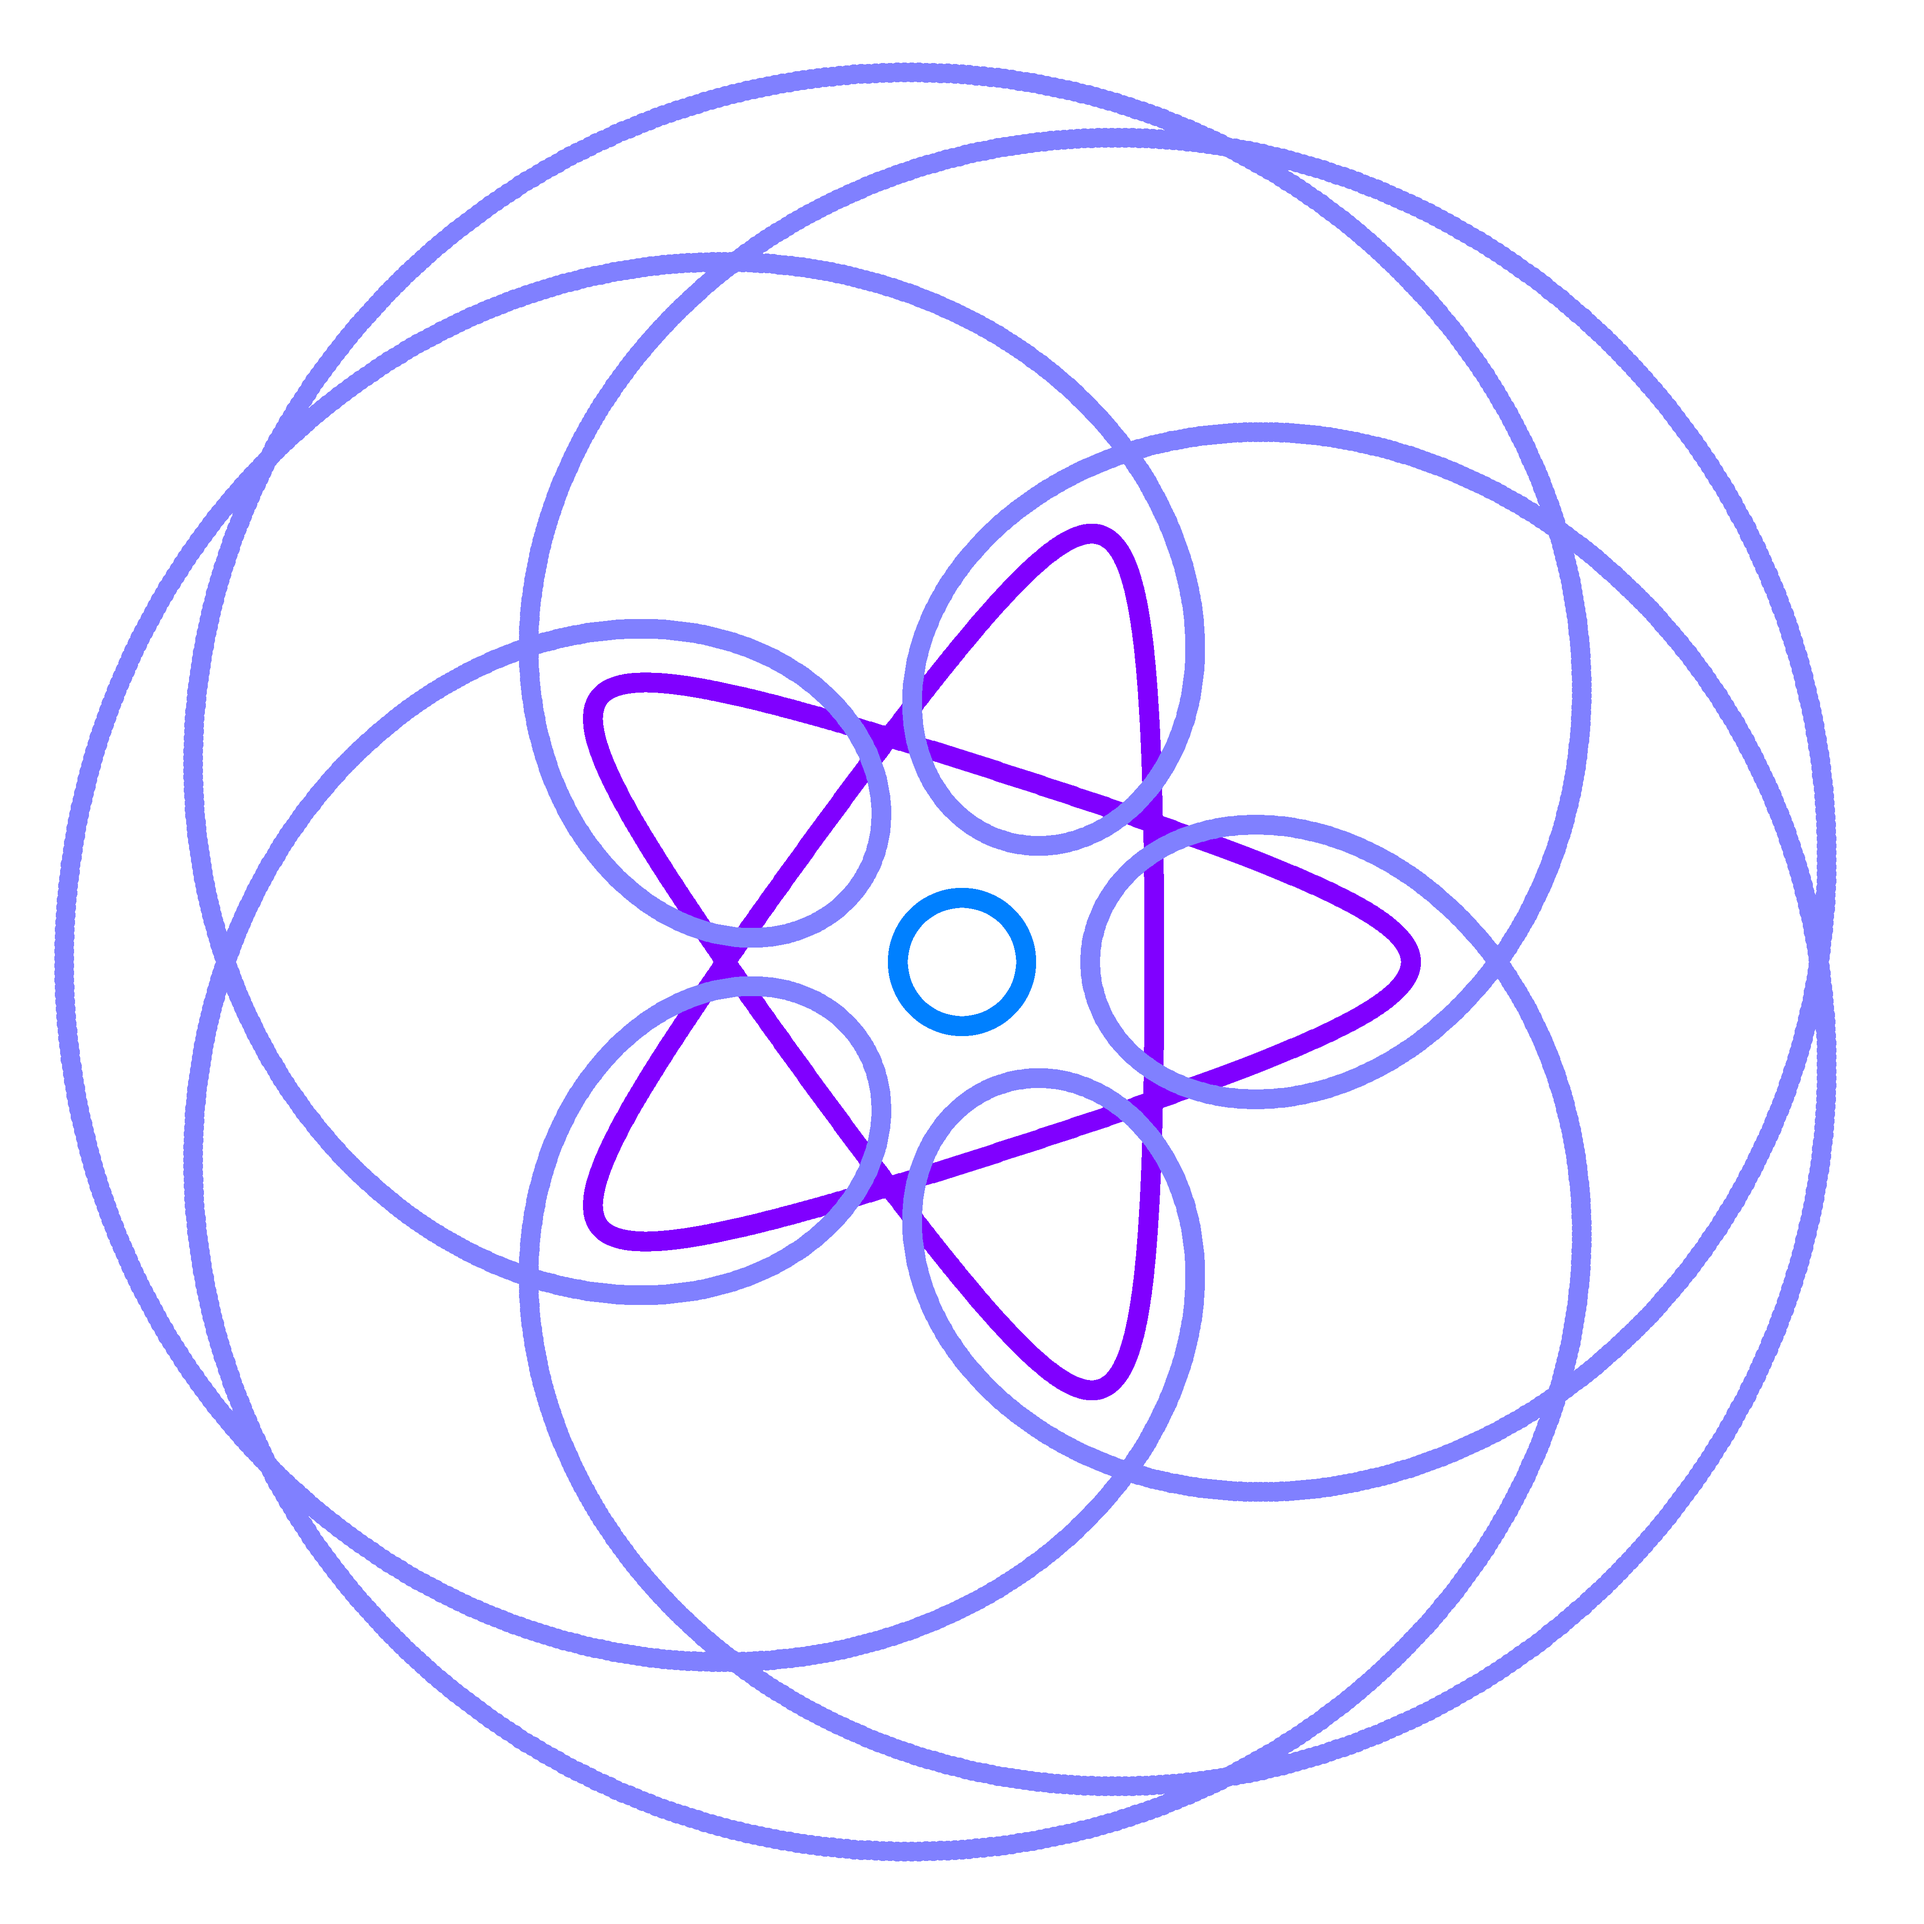
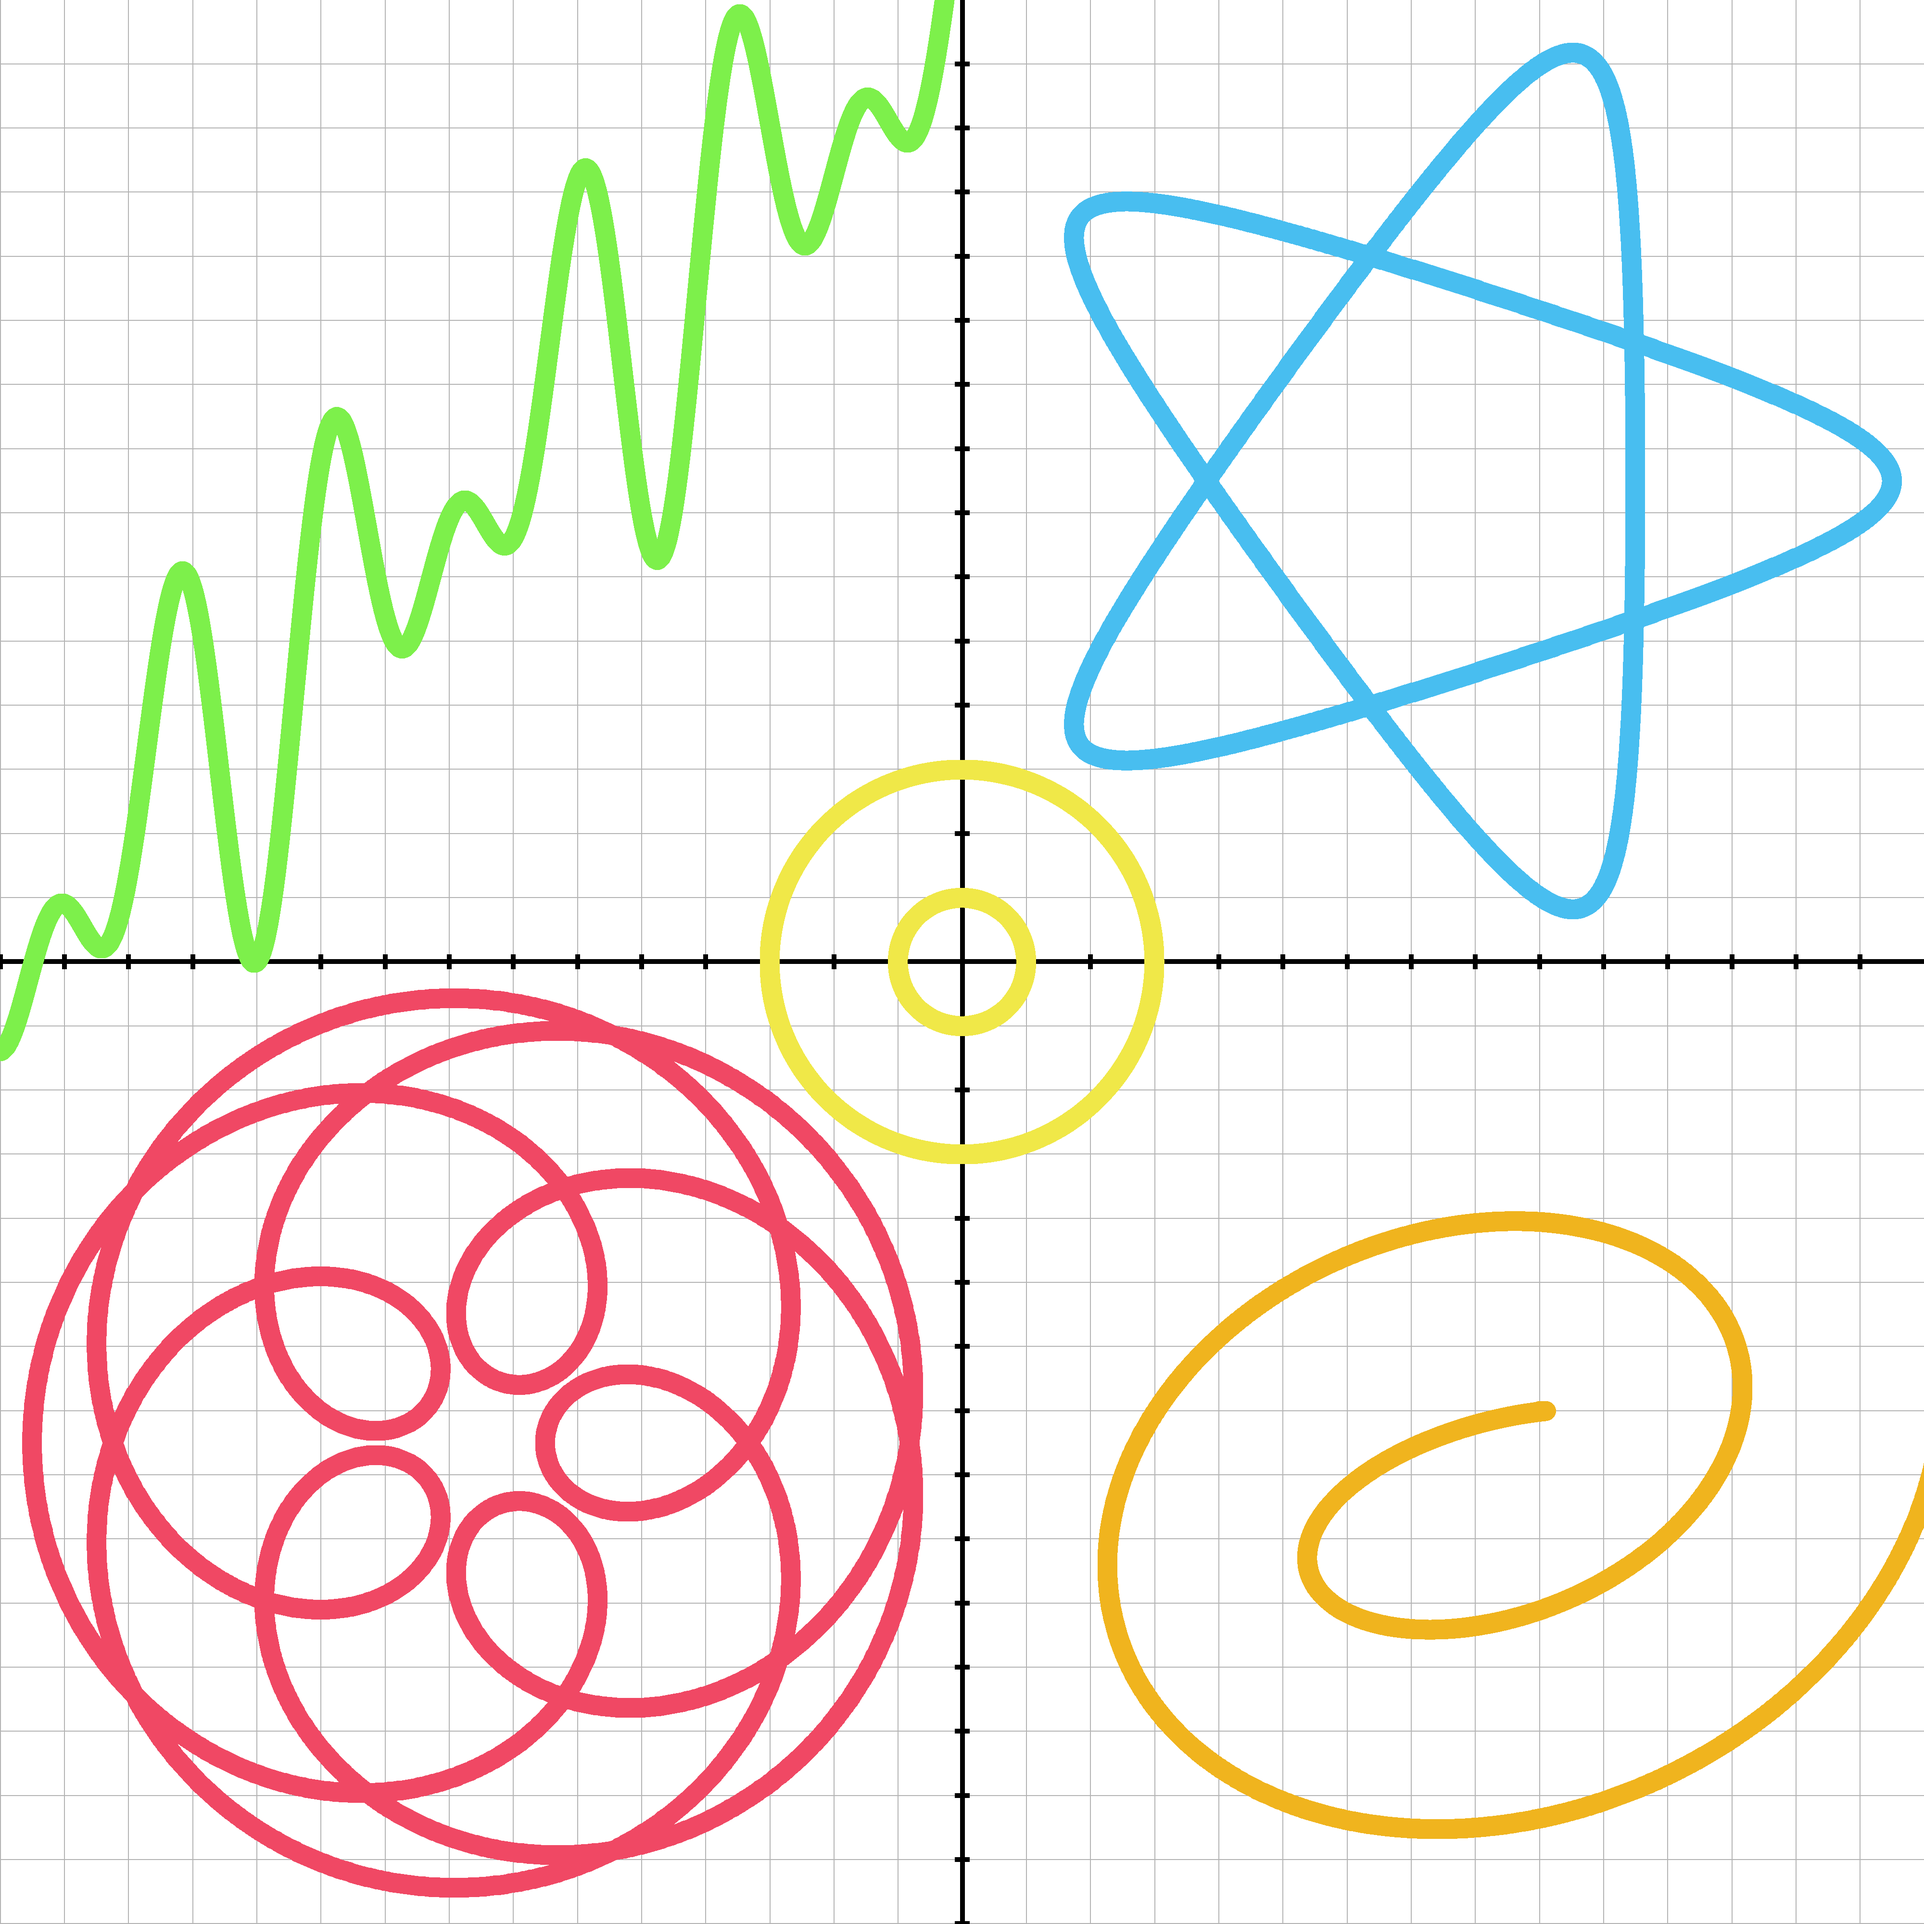
Add grid + x and y axis

Changed region(s): [[0.0, 0.0, 1.0, 1.0], [0.9688, 0.7812, 1.0, 0.8438], [0.9375, 0.8438, 0.9688, 0.875]]

diff --git a/my_image.py b/my_image.py
@@ -11,3 +11,74 @@ class MyImage:
         )
         self.draw = ImageDraw.Draw(self.image)
         self.name = self.image_options.image_name
+
+        if self.image_options.has_axis:
+            self._draw_frame()
+
+    def _draw_frame(self) -> None:
+        # draw x and y axis with mesure of 1 and image_option.interval_bounds
+
+        x_min, x_max = self.image_options.draw_interval_bounds[0]
+        y_min, y_max = self.image_options.draw_interval_bounds[1]
+        scale = (
+            self.image_options.image_size[0] / (x_max - x_min),
+            self.image_options.image_size[1] / (y_max - y_min),
+        )
+        offset = (-x_min * scale[0], -y_min * scale[1])
+
+        # draw an background ligth-grey grid
+        for i in range(int(x_min), int(x_max)):
+            self.draw.line(
+                [
+                    (i * scale[0] + offset[0], 0),
+                    (i * scale[0] + offset[0], self.image_options.image_size[1]),
+                ],
+                fill=(180, 180, 180),
+                width=2,
+            )
+        for i in range(int(y_min), int(y_max)):
+            self.draw.line(
+                [
+                    (0, i * scale[1] + offset[1]),
+                    (self.image_options.image_size[0], i * scale[1] + offset[1]),
+                ],
+                fill=(180, 180, 180),
+                width=2,
+            )
+
+        # draw x and y axis
+        self.draw.line(
+            [
+                (0, offset[1]),
+                (self.image_options.image_size[0], offset[1]),
+            ],
+            fill=self.image_options.axis_color,
+            width=self.image_options.axis_width,
+        )
+        self.draw.line(
+            [
+                (offset[0], 0),
+                (offset[0], self.image_options.image_size[1]),
+            ],
+            fill=self.image_options.axis_color,
+            width=self.image_options.axis_width,
+        )
+        # draw ticks
+        for i in range(int(x_min), int(x_max)):
+            self.draw.line(
+                [
+                    (i * scale[0] + offset[0], offset[1] - 15),
+                    (i * scale[0] + offset[0], offset[1] + 15),
+                ],
+                fill=self.image_options.axis_color,
+                width=self.image_options.axis_width,
+            )
+        for i in range(int(y_min), int(y_max)):
+            self.draw.line(
+                [
+                    (offset[0] - 15, i * scale[1] + offset[1]),
+                    (offset[0] + 15, i * scale[1] + offset[1]),
+                ],
+                fill=self.image_options.axis_color,
+                width=self.image_options.axis_width,
+            )

diff --git a/drawer.py b/drawer.py
@@ -68,10 +68,10 @@ if __name__ == "__main__":
         "star": [
             ParametricCurve(
                 interval_bounds=[0, 6 * np.pi],
-                x_func=lambda t: 2 * np.cos(t) + 5 * np.cos(2 * t / 3),
-                y_func=lambda t: 2 * np.sin(t) - 5 * np.sin(2 * t / 3),
+                x_func=lambda t: 2 * np.cos(t) + 5 * np.cos(2 * t / 3) + 7.5,
+                y_func=lambda t: 2 * np.sin(t) - 5 * np.sin(2 * t / 3) + 7.5,
             ),
-            DrawOptions(draw_color=(128, 0, 255), draw_width=20),
+            DrawOptions(draw_color=(72, 190, 240), draw_width=20),
         ],
         "circle": [
             ParametricCurve(
@@ -79,15 +79,39 @@ if __name__ == "__main__":
                 x_func=lambda t: np.cos(t),
                 y_func=lambda t: np.sin(t),
             ),
-            DrawOptions(draw_color=(0, 128, 255), draw_width=20),
+            DrawOptions(draw_color=(240, 232, 72), draw_width=20),
+        ],
+        "circle_2": [
+            ParametricCurve(
+                interval_bounds=[0, 2 * np.pi],
+                x_func=lambda t: 3 * np.cos(t),
+                y_func=lambda t: 3 * np.sin(t),
+            ),
+            DrawOptions(draw_color=(240, 232, 72), draw_width=20),
         ],
         "heart": [
             ParametricCurve(
                 interval_bounds=[0, 6 * np.pi],
-                x_func=lambda t: 8 * np.cos(t) - 6 * np.cos(8 * t / 3),
-                y_func=lambda t: 8 * np.sin(t) - 6 * np.sin(8 * t / 3),
+                x_func=lambda t: (8 * np.cos(t) - 6 * np.cos(8 * t / 3)) / 2 - 7.5,
+                y_func=lambda t: (8 * np.sin(t) - 6 * np.sin(8 * t / 3)) / 2 - 7.5,
             ),
-            DrawOptions(draw_color=(128, 128, 255), draw_width=20),
+            DrawOptions(draw_color=(240, 72, 100), draw_width=20),
+        ],
+        "some_curve": [
+            ParametricCurve(
+                interval_bounds=[-15, 0],
+                x_func=lambda t: t,
+                y_func=lambda t: t + 15 + 2 * np.sin(3 * t) + 2 * np.cos(2 * t),
+            ),
+            DrawOptions(draw_color=(125, 240, 75), draw_width=20),
+        ],
+        "spiral": [
+            ParametricCurve(
+                interval_bounds=[0, 4 * np.pi],
+                x_func=lambda t: 0.5 * t * np.cos(t) + 8 + np.cos(t),
+                y_func=lambda t: 0.5 * t * np.sin(t) - 8 + np.cos(t),
+            ),
+            DrawOptions(draw_color=(240, 180, 30), draw_width=20),
         ],
     }
 

diff --git a/image_options.py b/image_options.py
@@ -7,4 +7,7 @@ class ImageOptions:
     image_size: Tuple[int]
     draw_interval_bounds: List[List[int]]
     background_color: Tuple = (255, 255, 255)
+    has_axis: bool = True
+    axis_color: Tuple = (0, 0, 0)
+    axis_width: int = 10
     image_name: str = "image"
